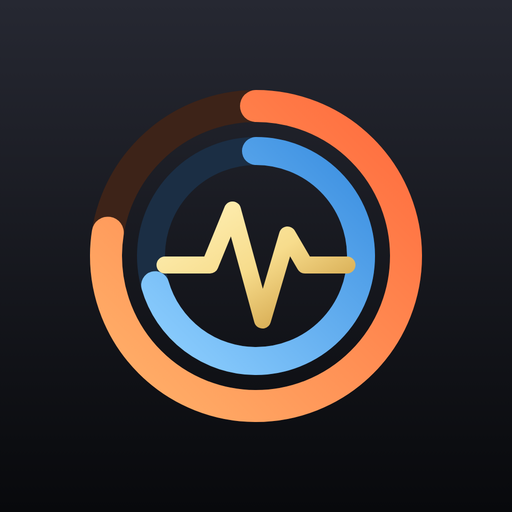
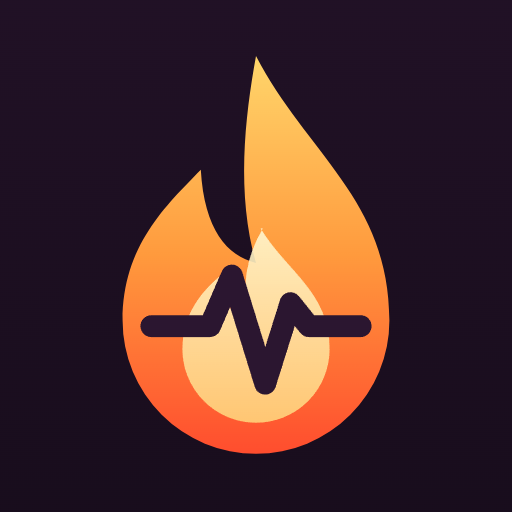
Yeni alev logosu ve güncel gizlilik politikası

diff --git a/gizlilik.html b/gizlilik.html
@@ -22,7 +22,7 @@ a { color: var(--acc); }
 <body>
 <main>
 <h1>App Ritim Gizlilik Politikası</h1>
-<p class="muted">Son güncelleme: 17 Ekim 2026</p>
+<p class="muted">Son güncelleme: 18 Ekim 2026</p>
 
 <p>App Ritim; adım, su ve uyku alışkanlıklarını takip etmene, arkadaşlarınla yarışmana yardım eden bir uygulamadır. Bu metin hangi bilgileri neden kullandığımızı, nerede sakladığımızı ve kimlerle paylaştığımızı açıklar. Sorularını <a href="mailto:appritim.destek@gmail.com">appritim.destek@gmail.com</a> adresine yazabilirsin.</p>
 
@@ -31,7 +31,8 @@ a { color: var(--acc); }
 <ul>
   <li>Günlük adım sayıların, içtiğin su, uyku kayıtların, ruh hâli kayıtların ve alarmların</li>
   <li>Kilon, boyun, cinsiyetin, hedefin ve günlük hedeflerin</li>
-  <li>Biyografin ve fotoğrafın (paylaşmayı seçmediğin sürece)</li>
+  <li>Biyografin ve fotoğrafın (paylaşmayı seçmediğin sürece); profil videon hiçbir zaman telefonundan çıkmaz</li>
+  <li>Sanal evcil dostunun bakımı, öğünleri ve giysileri</li>
 </ul>
 <p>Uygulamayı silersen bu bilgiler de telefonundan silinir.</p>
 
@@ -39,7 +40,7 @@ a { color: var(--acc); }
 <p>Hesap açmak isteğe bağlıdır; uygulamayı hesapsız (misafir olarak) da kullanabilirsin. Hesap açarsan şunlar sunucumuzda saklanır:</p>
 <ul>
   <li><b>Hesap bilgileri:</b> kullanıcı adın, adın, şifrenin geri çevrilemez şekilde şifrelenmiş (hash) hâli ve eklediysen e-posta adresin</li>
-  <li><b>Herkese açık profil kartın:</b> adın, emojin, seviyen, rozetlerin, en uzun serin ve bu haftaki toplam adım sayın. "Herkes görsün" seçersen biyografin ve fotoğrafın da kartında görünür.</li>
+  <li><b>Herkese açık profil kartın:</b> adın, emojin, seviyen, rozetlerin, en uzun serin ve bu haftaki toplam adım sayın, bu hafta uygulamada geçirdiğin süre ("En aktif" sıralaması için) ve sanal evcil dostunun türü, adı ve büyümesi ("Dostlar" sıralaması için). "Herkes görsün" seçersen biyografin ve fotoğrafın da kartında görünür.</li>
   <li><b>Sosyal özellikler:</b> arkadaşlıkların, arkadaşlarınla yazıştığın mesajlar, beğeniler, dürtmeler, davetler ve katıldığın grup meydan okumaları</li>
 </ul>
 <p>Sunucumuz <b>Supabase</b> altyapısında, Avrupa Birliği içinde (<b>Frankfurt, Almanya</b>) çalışır. Bağlantılar şifrelidir (HTTPS).</p>
